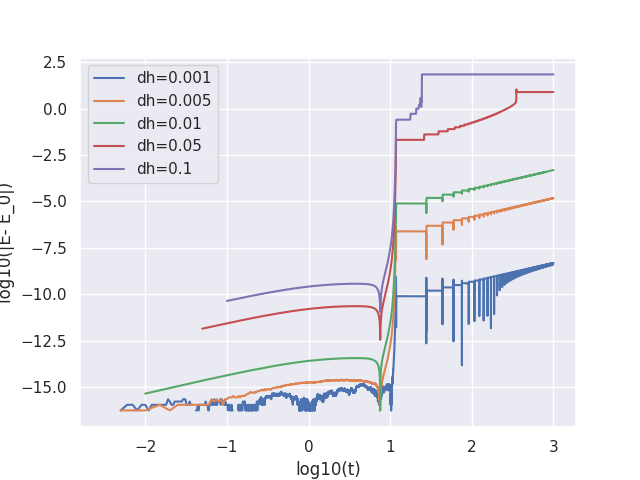
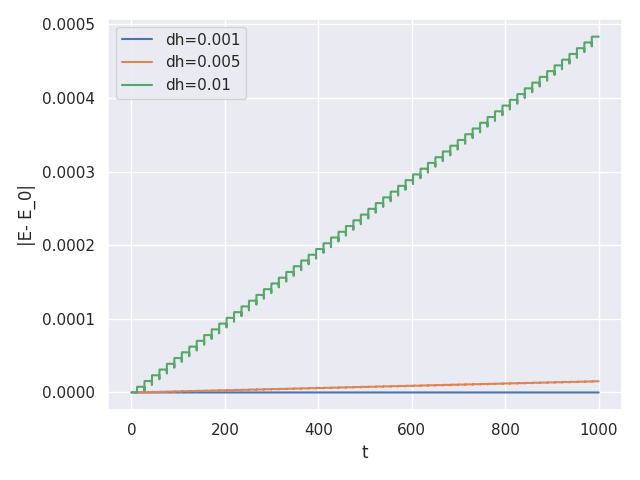
add : energyの対数なしもついか

diff --git a/ode_pde/runge_kutta_energy.py b/ode_pde/runge_kutta_energy.py
@@ -88,6 +88,7 @@ def plot_pos():
 def plot_energy():
     t_end = 1000
     dh_ls = [0.001, 0.005, 0.01, 0.05, 0.1]
+    dh_ls_two = [0.001, 0.005, 0.01]
     sns.set_theme()
     fig = plt.figure()
 
@@ -97,6 +98,18 @@ def plot_energy():
     plt.xlabel("log10(t)")
     plt.ylabel("log10(|E- E_0|)")
     plt.legend()
+    plt.tight_layout()
+    plt.savefig("energy_log.png")
+
+    fig = plt.figure()
+
+    for dh in dh_ls_two:
+        x_ls, y_ls, u_ls, v_ls, t_ls, energy_ls = execute(dh, t_end)
+        plt.plot(t_ls[1:], energy_ls[1:], label="dh={}".format(dh))
+    plt.xlabel("t")
+    plt.ylabel("|E- E_0|")
+    plt.legend()
+    plt.tight_layout()
     plt.savefig("energy.png")
 
 
